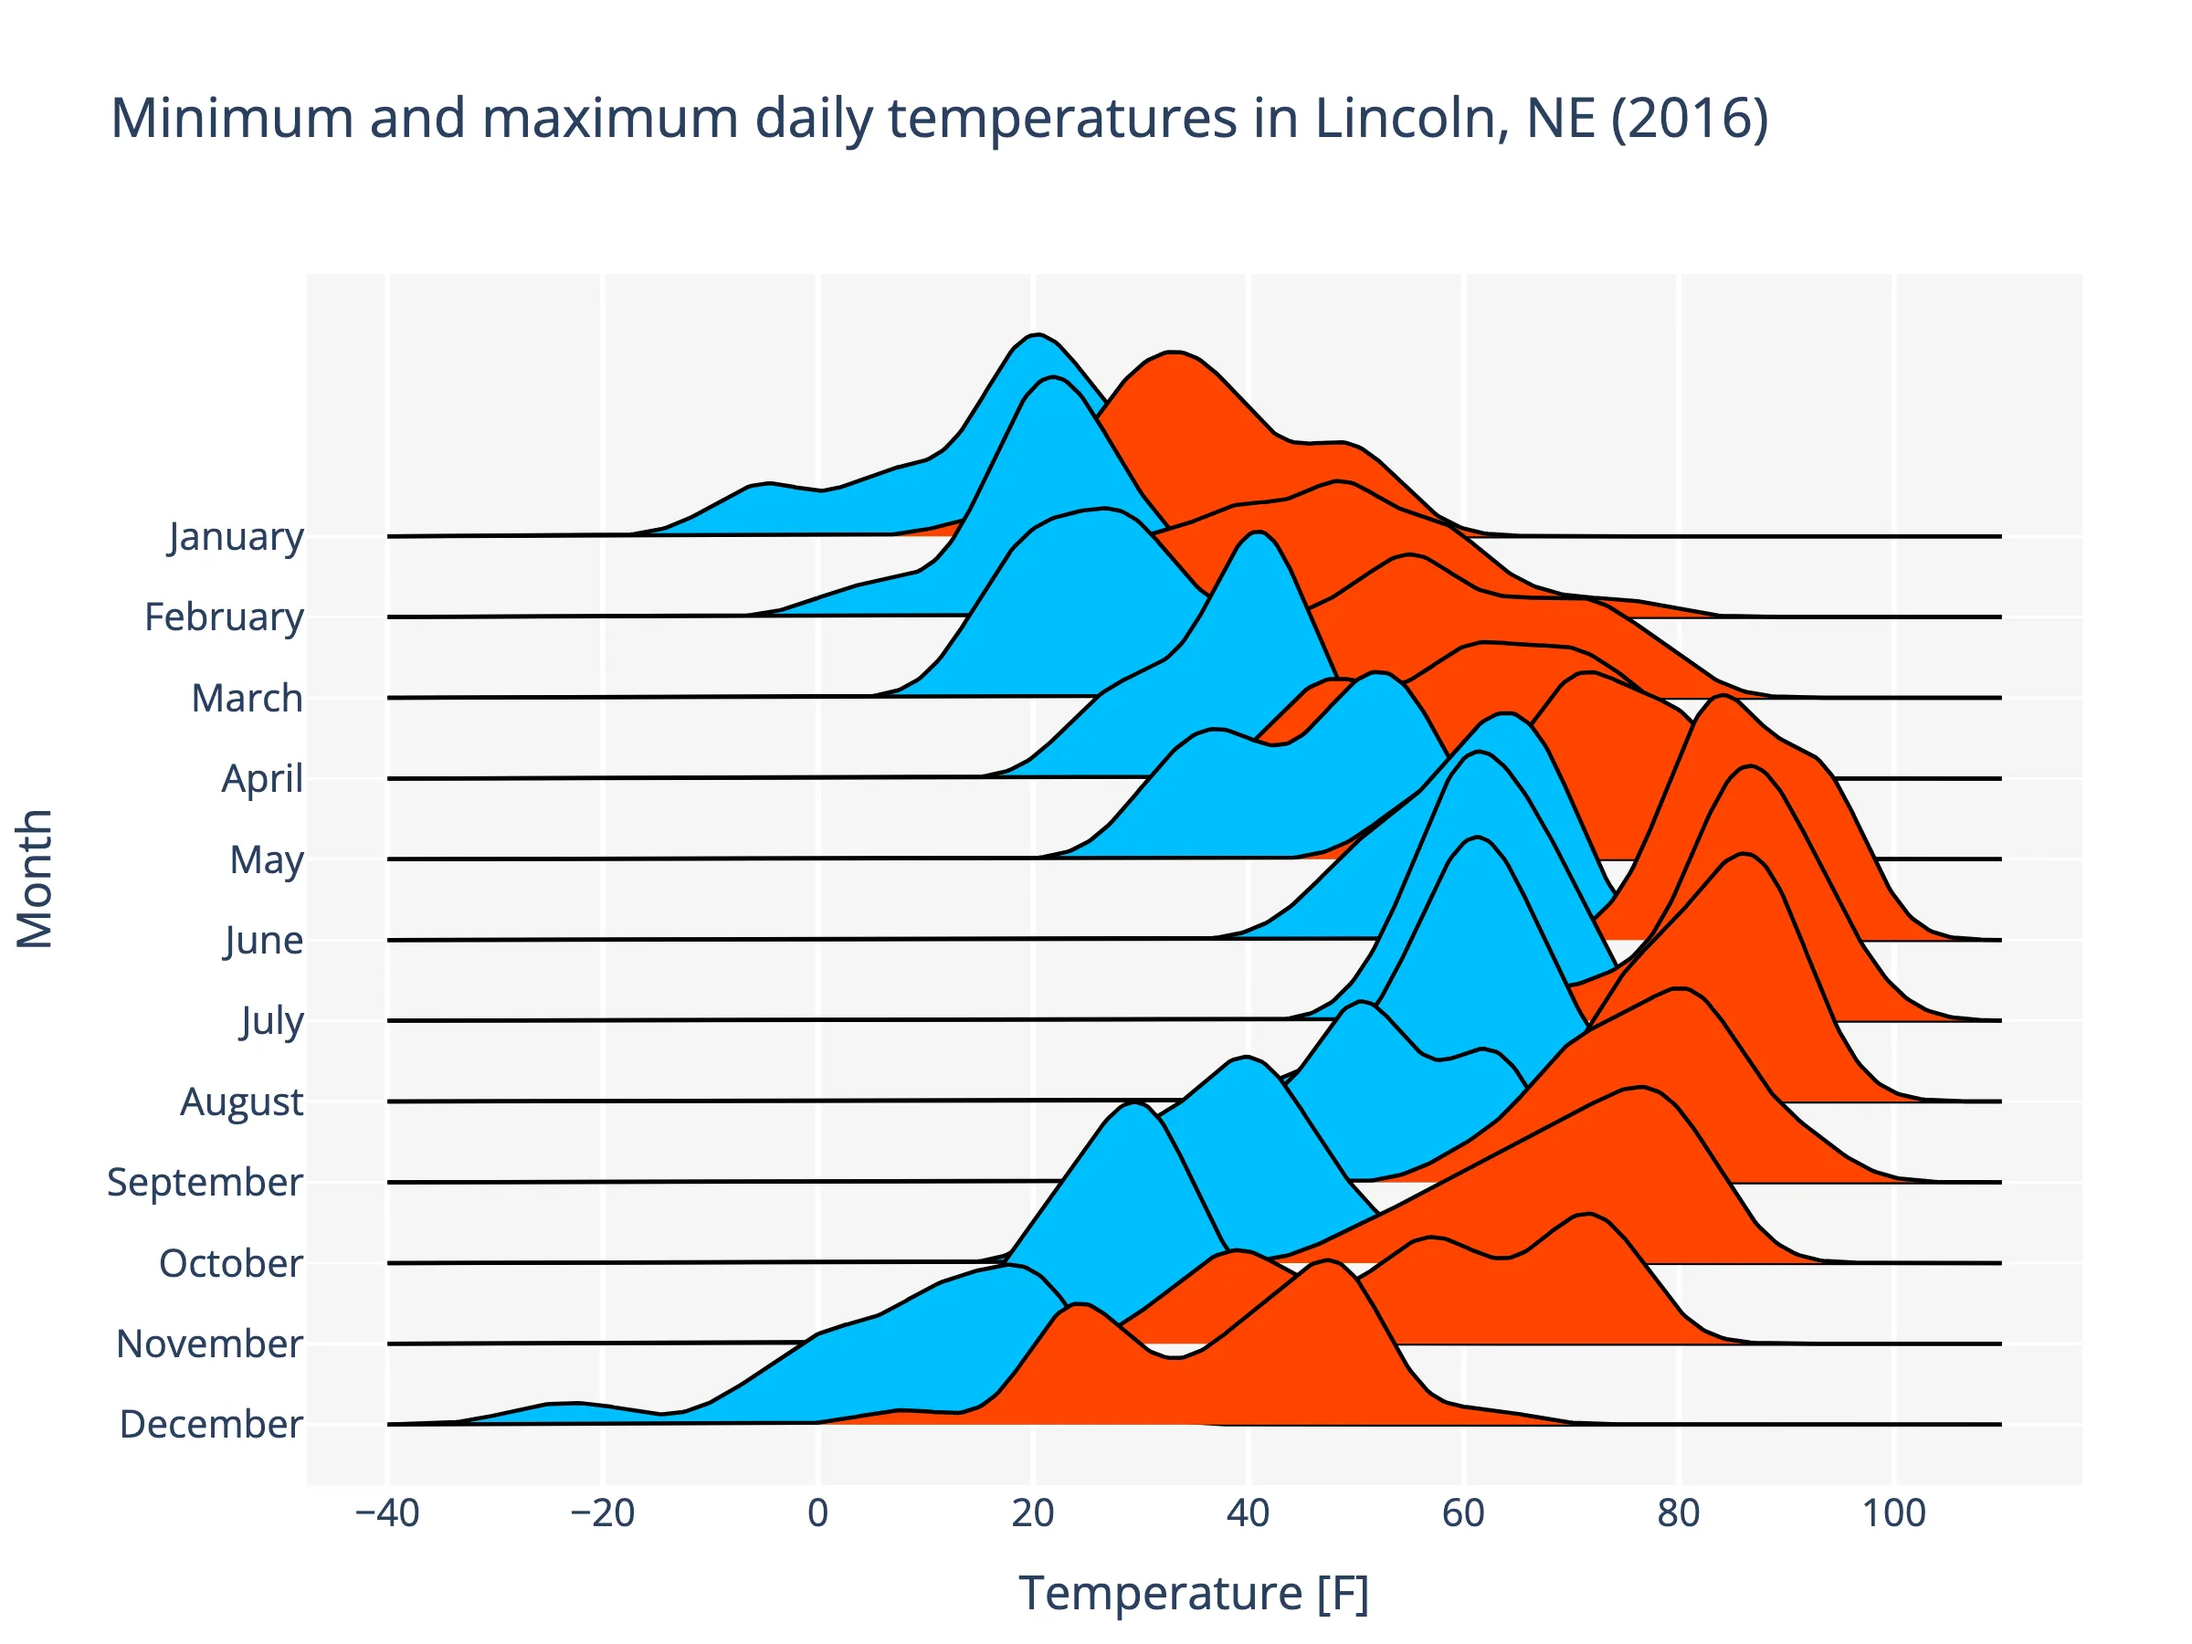
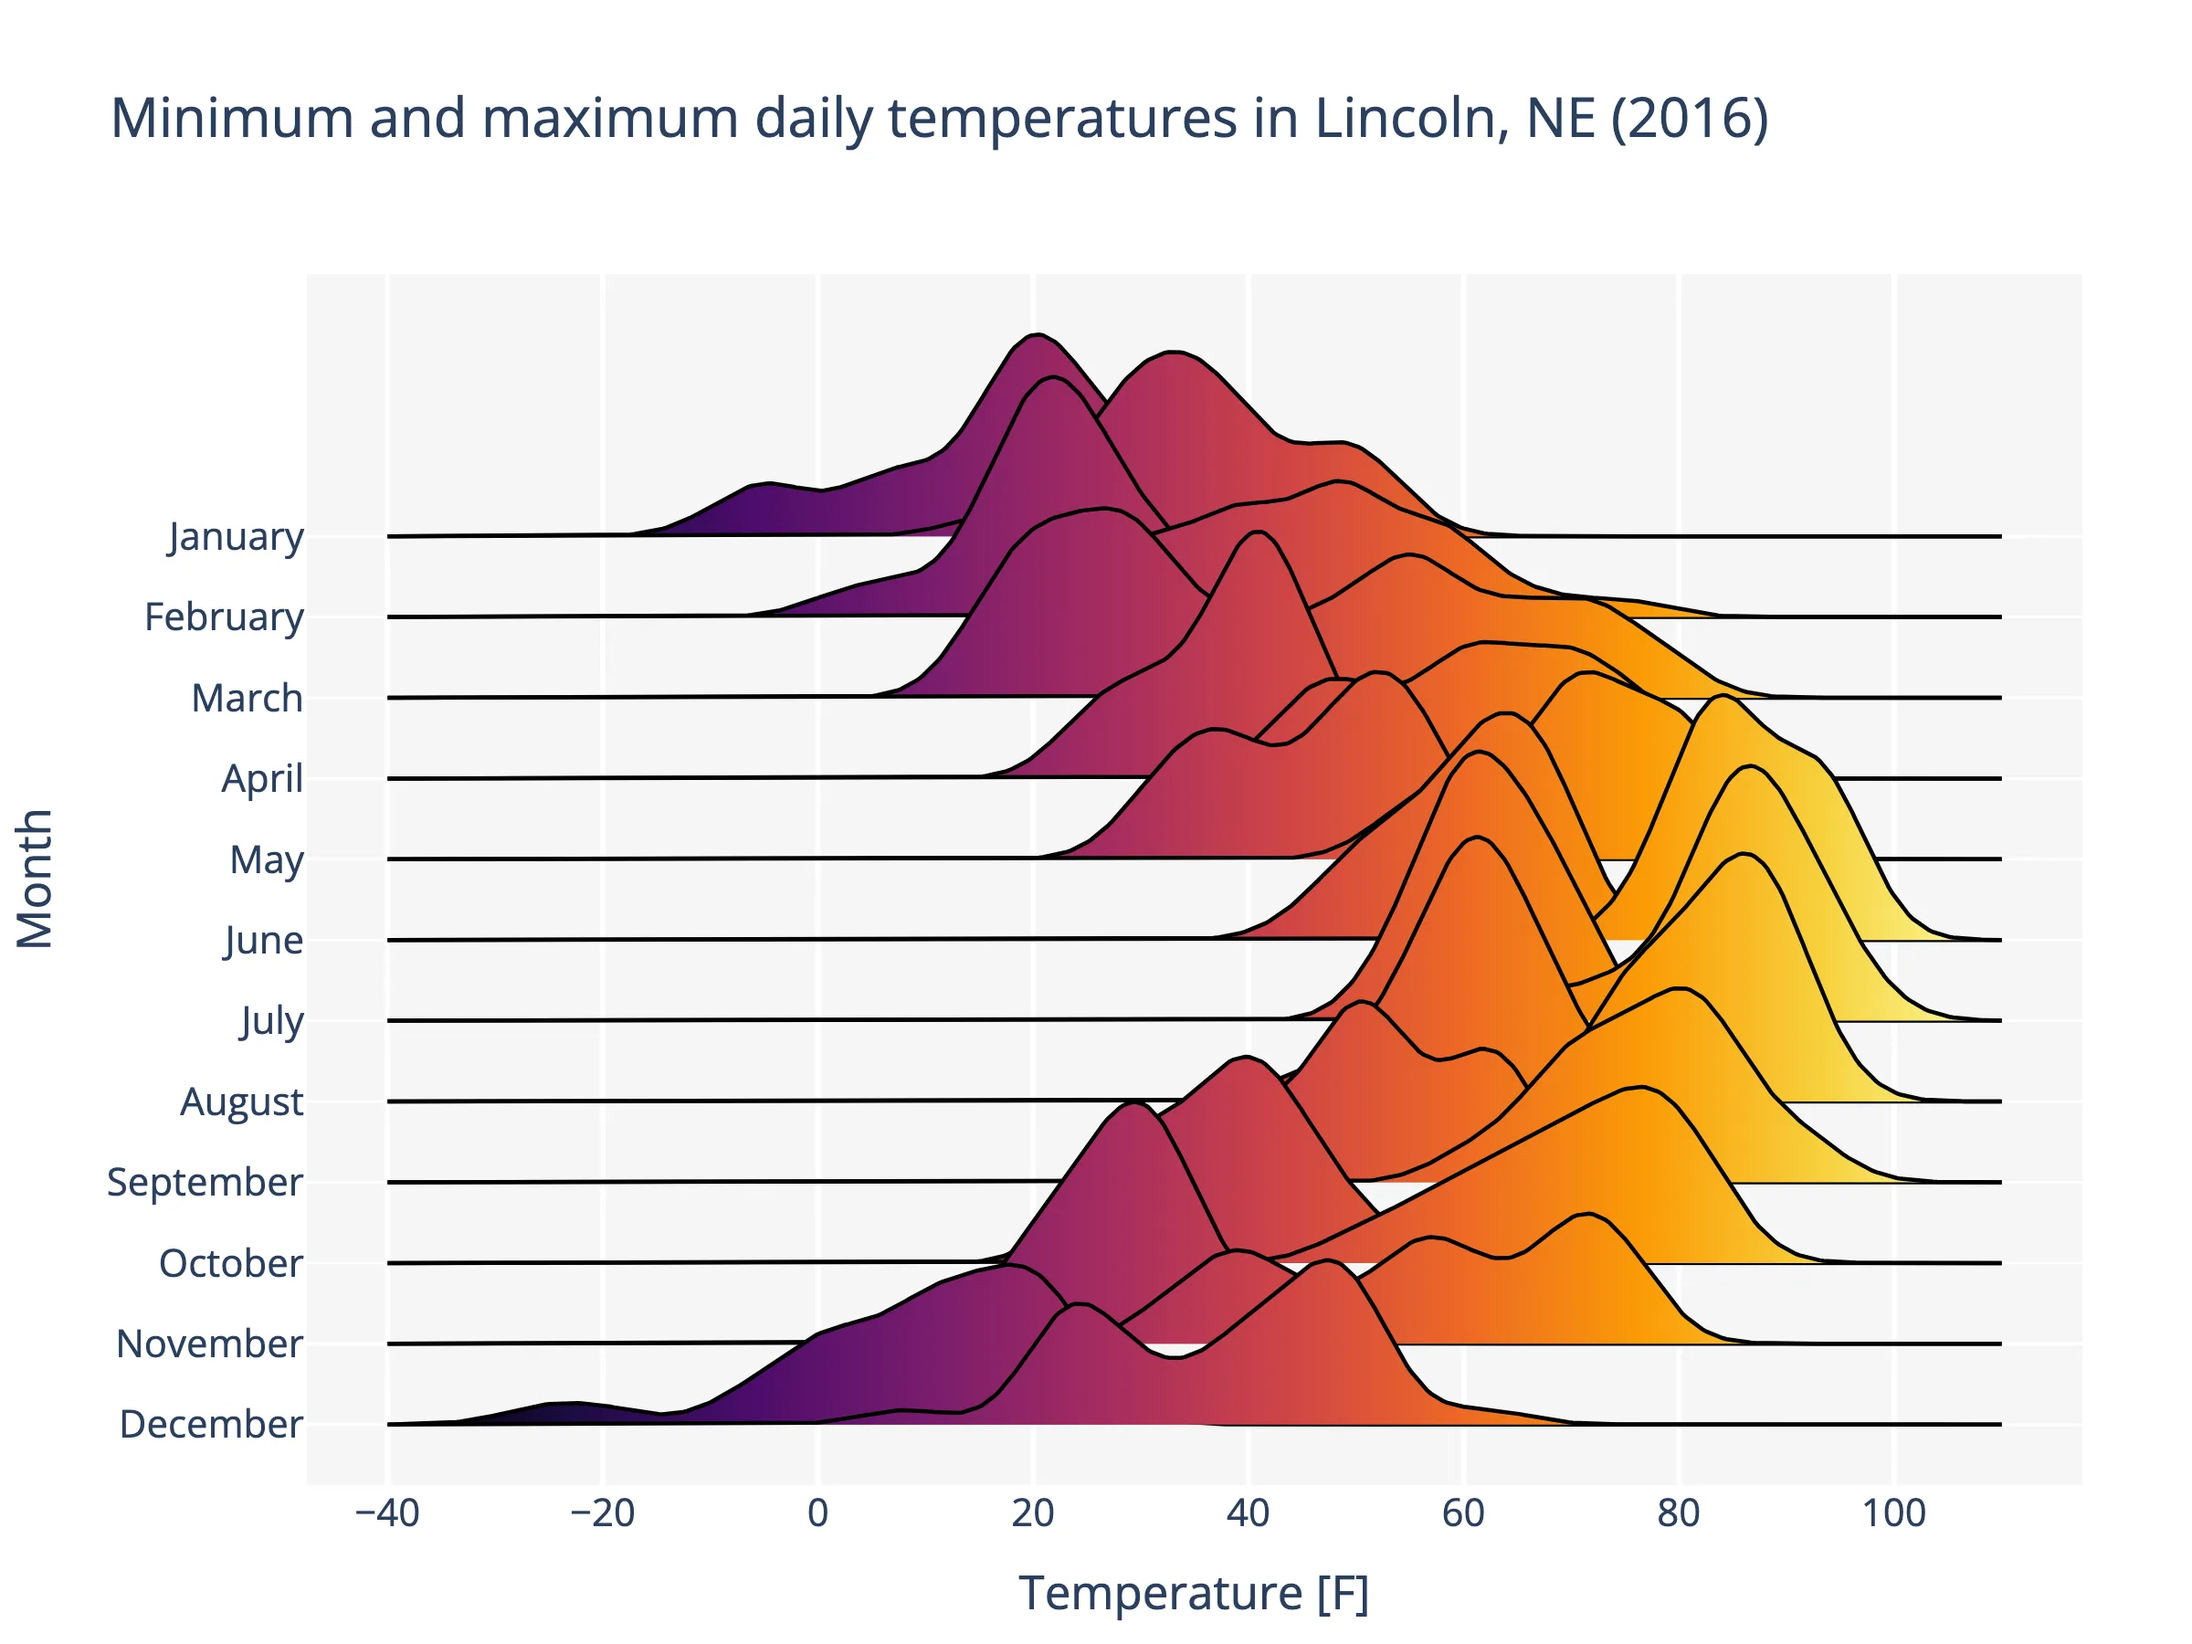
Fix `color_discrete_map` toggle

Changed region(s): [[0.2188, 0.1867, 0.875, 0.8711]]

diff --git a/src/ridgeplot/_obj/traces/base.py b/src/ridgeplot/_obj/traces/base.py
@@ -11,7 +11,7 @@ from typing_extensions import Literal
 if TYPE_CHECKING:
     from plotly import graph_objects as go
 
-    from ridgeplot._color.interpolation import InterpolationContext, SolidColormode
+    from ridgeplot._color.interpolation import InterpolationContext
     from ridgeplot._types import Color, ColorScale, DensityTrace
 
 
@@ -44,7 +44,7 @@ should also be set to the desired label for the trace (e.g. ``name=self.label``)
 @dataclass
 class ColoringContext:
     colorscale: ColorScale
-    colormode: Literal["fillgradient"] | SolidColormode
+    fillgradient: bool
     opacity: float | None
     interpolation_ctx: InterpolationContext
 

diff --git a/tests/unit/obj/traces/test_bar.py b/tests/unit/obj/traces/test_bar.py
@@ -40,7 +40,7 @@ class TestBarTrace:
     ) -> None:
         coloring_ctx = ColoringContext(
             colorscale=[(0.0, "red"), (1.0, "blue")],
-            colormode="fillgradient",
+            fillgradient=True,
             opacity=None,
             interpolation_ctx=interpolation_ctx,
         )
@@ -55,7 +55,7 @@ class TestBarTrace:
     ) -> None:
         coloring_ctx = ColoringContext(
             colorscale=[(0.0, "red"), (1.0, "blue")],
-            colormode="trace-index",
+            fillgradient=False,
             opacity=None,
             interpolation_ctx=interpolation_ctx,
         )

diff --git a/src/ridgeplot/_obj/traces/area.py b/src/ridgeplot/_obj/traces/area.py
@@ -17,7 +17,7 @@ class AreaTrace(RidgeplotTrace):
     _DEFAULT_LINE_WIDTH: ClassVar[float] = 1.5
 
     def _get_coloring_kwargs(self, ctx: ColoringContext) -> dict[str, Any]:
-        if ctx.colormode == "fillgradient":
+        if ctx.fillgradient:
             if ctx.opacity is not None:
                 # HACK: Plotly doesn't yet support setting the fill opacity
                 #       for traces with `fillgradient`. As a workaround, we

diff --git a/src/ridgeplot/_figure_factory.py b/src/ridgeplot/_figure_factory.py
@@ -213,7 +213,7 @@ def create_ridgeplot(
                 fig=fig,
                 coloring_ctx=ColoringContext(
                     colorscale=colorscale,
-                    colormode=colormode,
+                    fillgradient=colormode == "fillgradient" and not color_discrete_map,
                     opacity=opacity,
                     interpolation_ctx=interpolation_ctx,
                 ),

diff --git a/src/ridgeplot/_obj/traces/bar.py b/src/ridgeplot/_obj/traces/bar.py
@@ -16,7 +16,7 @@ class BarTrace(RidgeplotTrace):
     _DEFAULT_LINE_WIDTH: ClassVar[float] = 0.5
 
     def _get_coloring_kwargs(self, ctx: ColoringContext) -> dict[str, Any]:
-        if ctx.colormode == "fillgradient":
+        if ctx.fillgradient:
             color_kwargs = dict(
                 marker_line_color=self.line_color,
                 marker_color=[

diff --git a/cicd_utils/ridgeplot_examples/_lincoln_weather.py b/cicd_utils/ridgeplot_examples/_lincoln_weather.py
@@ -27,6 +27,7 @@ def main(
 
     fig = ridgeplot(
         samples=samples,
+        labels=[["Min Temperature [F]", "Max Temperature [F]"]] * len(months),
         row_labels=months,
         colorscale="Inferno",
         colormode="fillgradient",
